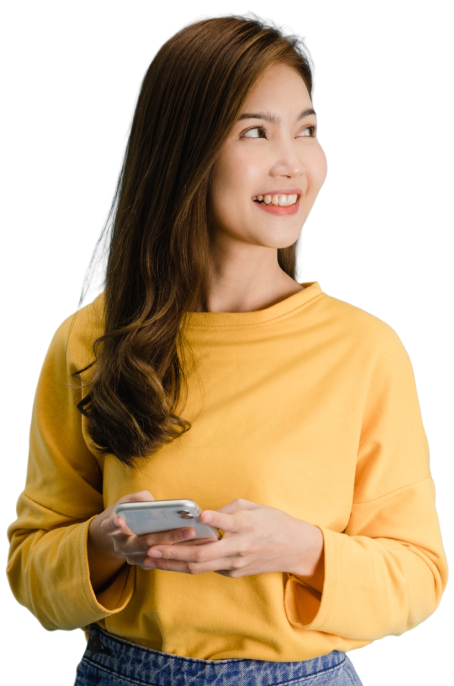
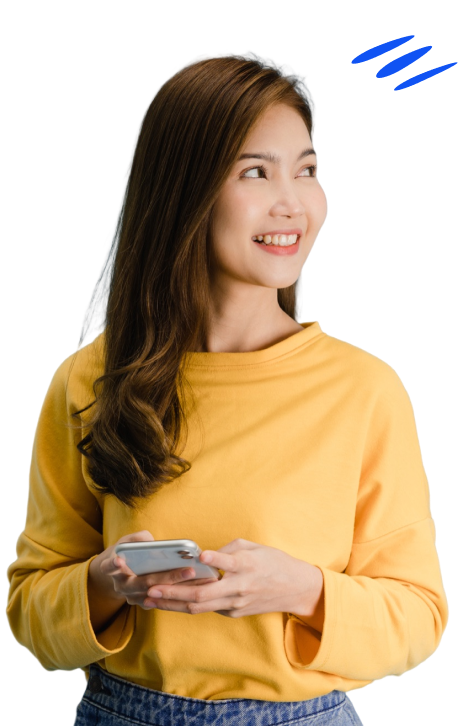
Update image

diff --git a/src/GlobalStar.tsx b/src/GlobalStar.tsx
@@ -340,7 +340,7 @@ export const GlobalStar = () => {
 
         {/* Contact Form Section */}
         <section id = "link_mail" className="flex overflow-hidden flex-col justify-center items-center px-16 py-28 w-full bg-white max-md:px-5 max-md:pt-24 max-md:max-w-full">
-          <div className="overflow-hidden pl-20 max-w-full bg-blue-600 rounded-2xl w-[1181px] max-md:pl-5">
+          <div className="pl-20 max-w-full bg-blue-600 rounded-2xl w-[1181px] max-md:pl-5">
             <div className="flex gap-5 max-md:flex-col">
               <div className="flex flex-col w-6/12 max-md:ml-0 max-md:w-full">
                 <div className="flex flex-col justify-center self-stretch my-auto mr-0 w-full text-base max-md:mt-10 max-md:max-w-full">
@@ -358,7 +358,7 @@ export const GlobalStar = () => {
                       onChange={(e) => setEmail(e.target.value)}
                       type="email"
                       id="email"
-                      className="shrink-0 mt-4 border-b-4 border-solid border-stone-300 bg-transparent focus:outline-none focus:border-blue-500 text-white placeholder:text-white placeholder:text-xl"
+                      className="shrink-0 mt-4 border-b-4 border-solid border-stone-300 bg-transparent focus:outline-none focus:border-blue-500 text-white placeholder:text-white placeholder:text-xl pb-[10px] font-normal"
                       aria-label="Enter your email"
                       placeholder="Enter your email"
                     />
@@ -378,7 +378,7 @@ export const GlobalStar = () => {
                     loading="lazy"
                     src="https://cdn.builder.io/api/v1/image/assets/TEMP/6933f785f19f85afc63f9052b74ecd7042e4ba287eb73d5837d8d5d9d9376b46?placeholderIfAbsent=true&apiKey=ca0f76b4bd974916a748ef3dbbcaecaf"
                     alt=""
-                    className="object-cover absolute inset-0 size-full"
+                    className="object-cover absolute inset-0 size-full top-28"
                   />
                   <img
                     loading="lazy"

diff --git a/src/components/GlobalStarHero.tsx b/src/components/GlobalStarHero.tsx
@@ -90,7 +90,7 @@ export const GlobalStarHero: React.FC<GlobalStarHeroProps> = ({ navigationItems,
 
       <main className="mt-20 w-full max-md:mt-10 max-md:max-w-full">
         <div className="flex gap-5 max-md:flex-col">
-          <div className="flex flex-col w-[33%] max-md:w-full">
+          <div className="flex flex-col w-[33%] max-md:w-full relative">
             <img 
               src="/young-asia-lady-using-phone.png" 
               alt="Young Asia lady using phone"
